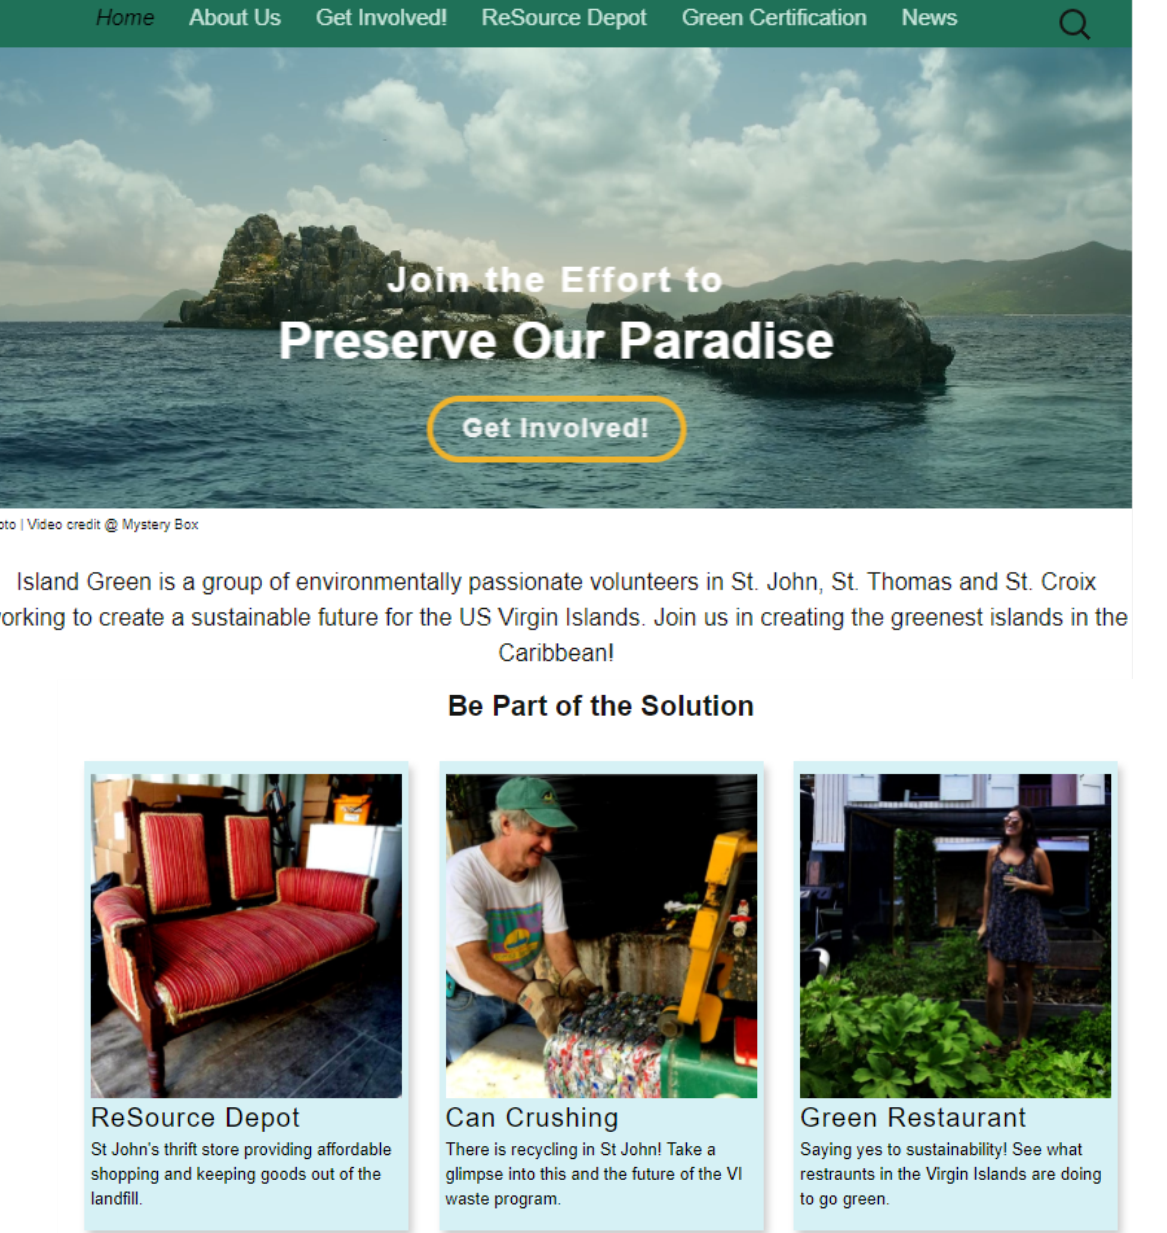
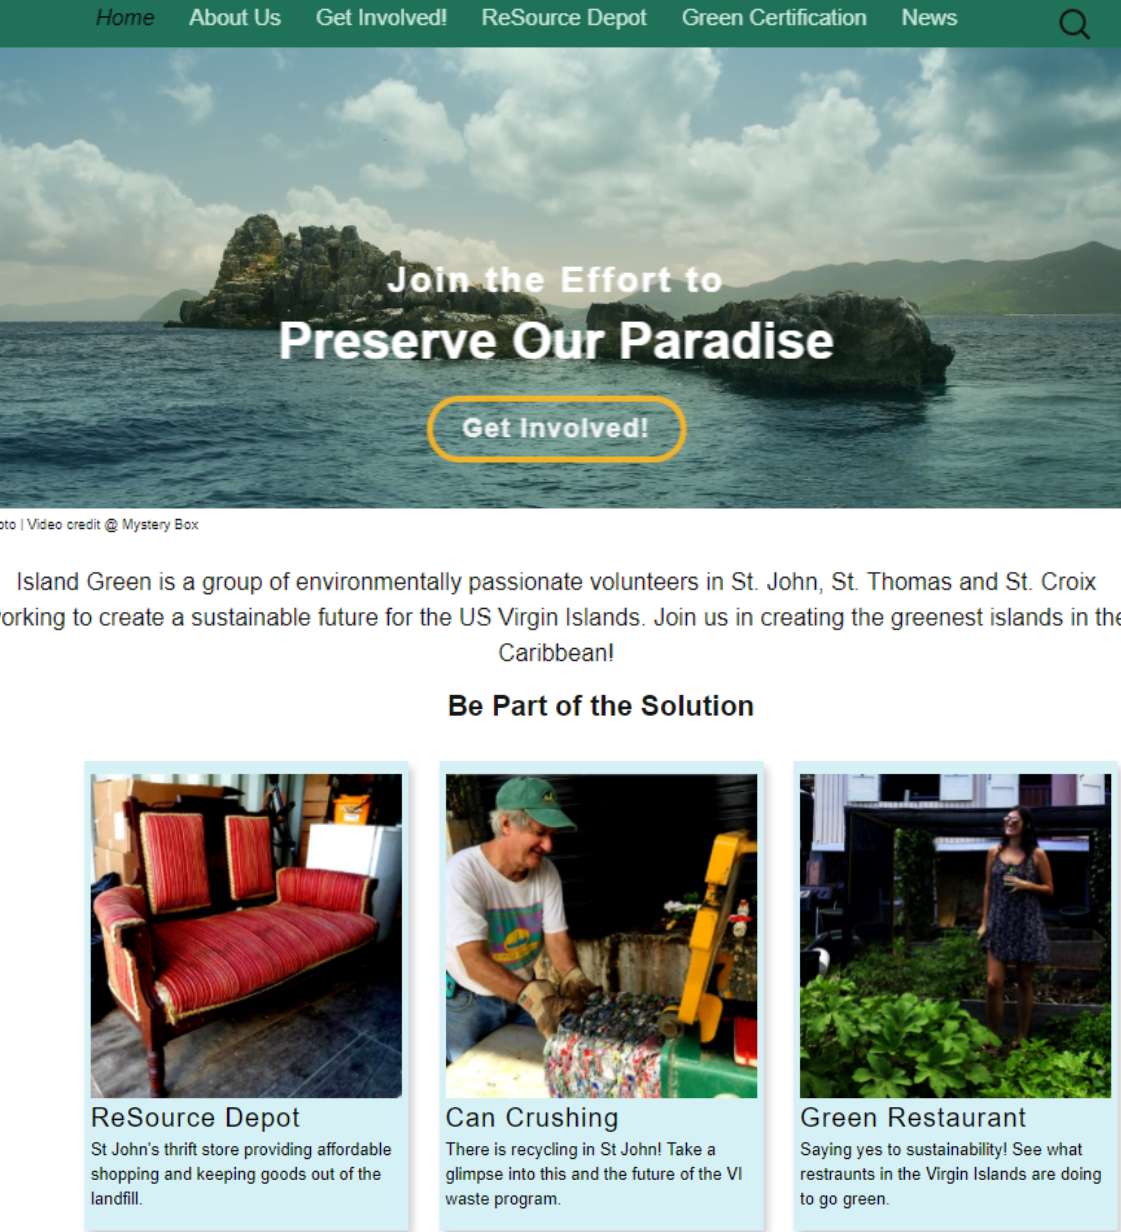
Editing images and commenting out 3RV

diff --git a/index.html b/index.html
@@ -36,7 +36,7 @@
         <div class="row">
 
           <div class="col">
-            <img class="portfolio-example-img" src="img/IGLA-homepage.png" alt="Island-Green-Nonprofit-Website">
+            <img class="portfolio-example-img" src="img/IGLA-homepage.jpg" alt="Island-Green-Nonprofit-Website">
           </div>
 
           <div class="col">
@@ -54,7 +54,7 @@
         <div class="row">
 
           <div class="col">
-            <img class="portfolio-example-img" src="img/cc-homepage.PNG" alt="insurance-adjuster-site">
+            <img class="portfolio-example-img" src="img/cc-homepage.jpg" alt="insurance-adjuster-site">
           </div>
 
           <div class="col">
@@ -68,7 +68,7 @@
       <div class="row">
 
         <div class="col">
-          <img class="portfolio-example-img" src="img/csc-homepage.PNG" alt="Caribbean-Solar-Website">
+          <img class="portfolio-example-img" src="img/csc-homepage.jpg" alt="Caribbean-Solar-Website">
         </div>
 
         <div class="col">
@@ -78,7 +78,7 @@
         </div>
 
       </div>
-
+<!--
       <div class="row">
 
         <div class="col">
@@ -92,7 +92,7 @@
         </div>
 
       </div>
-
+-->
 
     </section>
 
